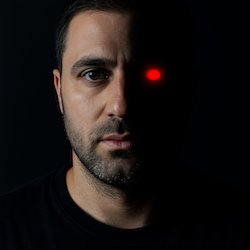
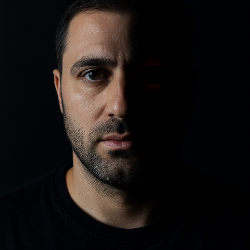
chore(portrait): update profile picture

diff --git a/src/components/PortraitParticles.jsx b/src/components/PortraitParticles.jsx
@@ -9,7 +9,7 @@ import usePortraitTailInteraction from '../hooks/usePortraitTailInteraction';
 import styles from './PortraitParticles.module.css';
 
 const Particles = () => {
-  const texture = useTexture('/png/MyPic.png');
+  const texture = useTexture('/png/myPic.png');
   const meshRef = useRef();
   const materialRef = useRef();
   const hitPlaneRef = useRef();
